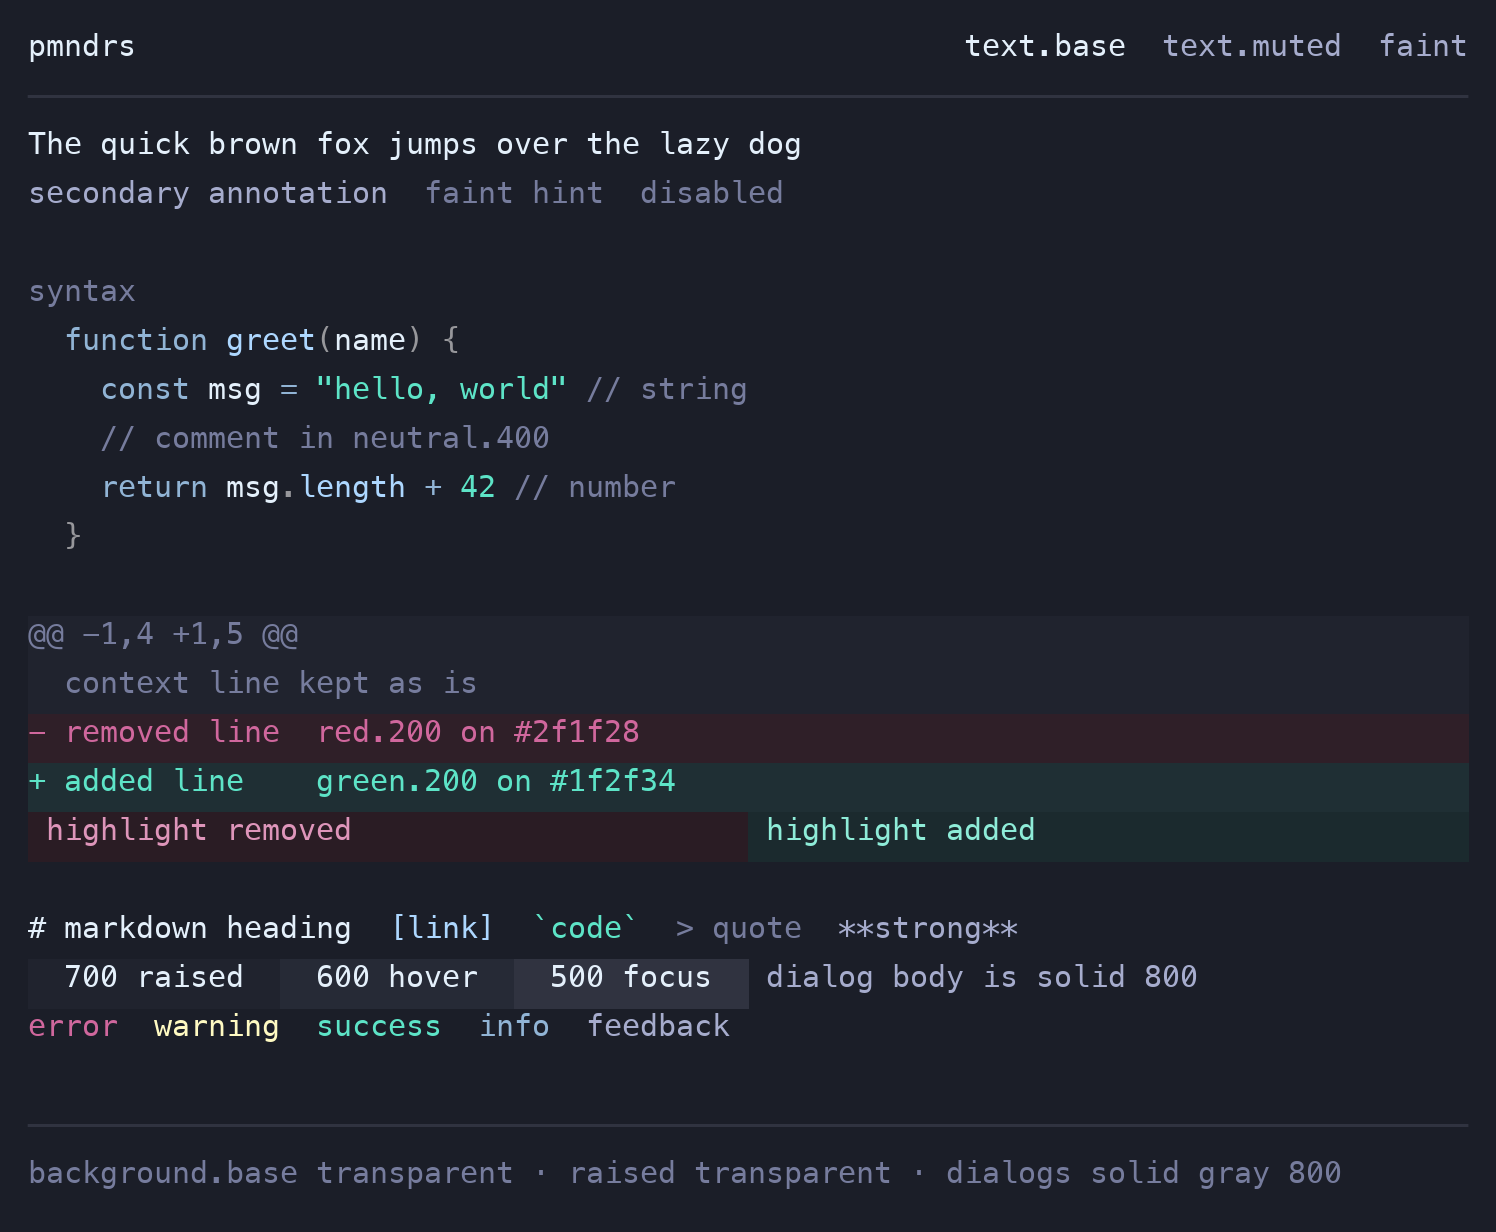
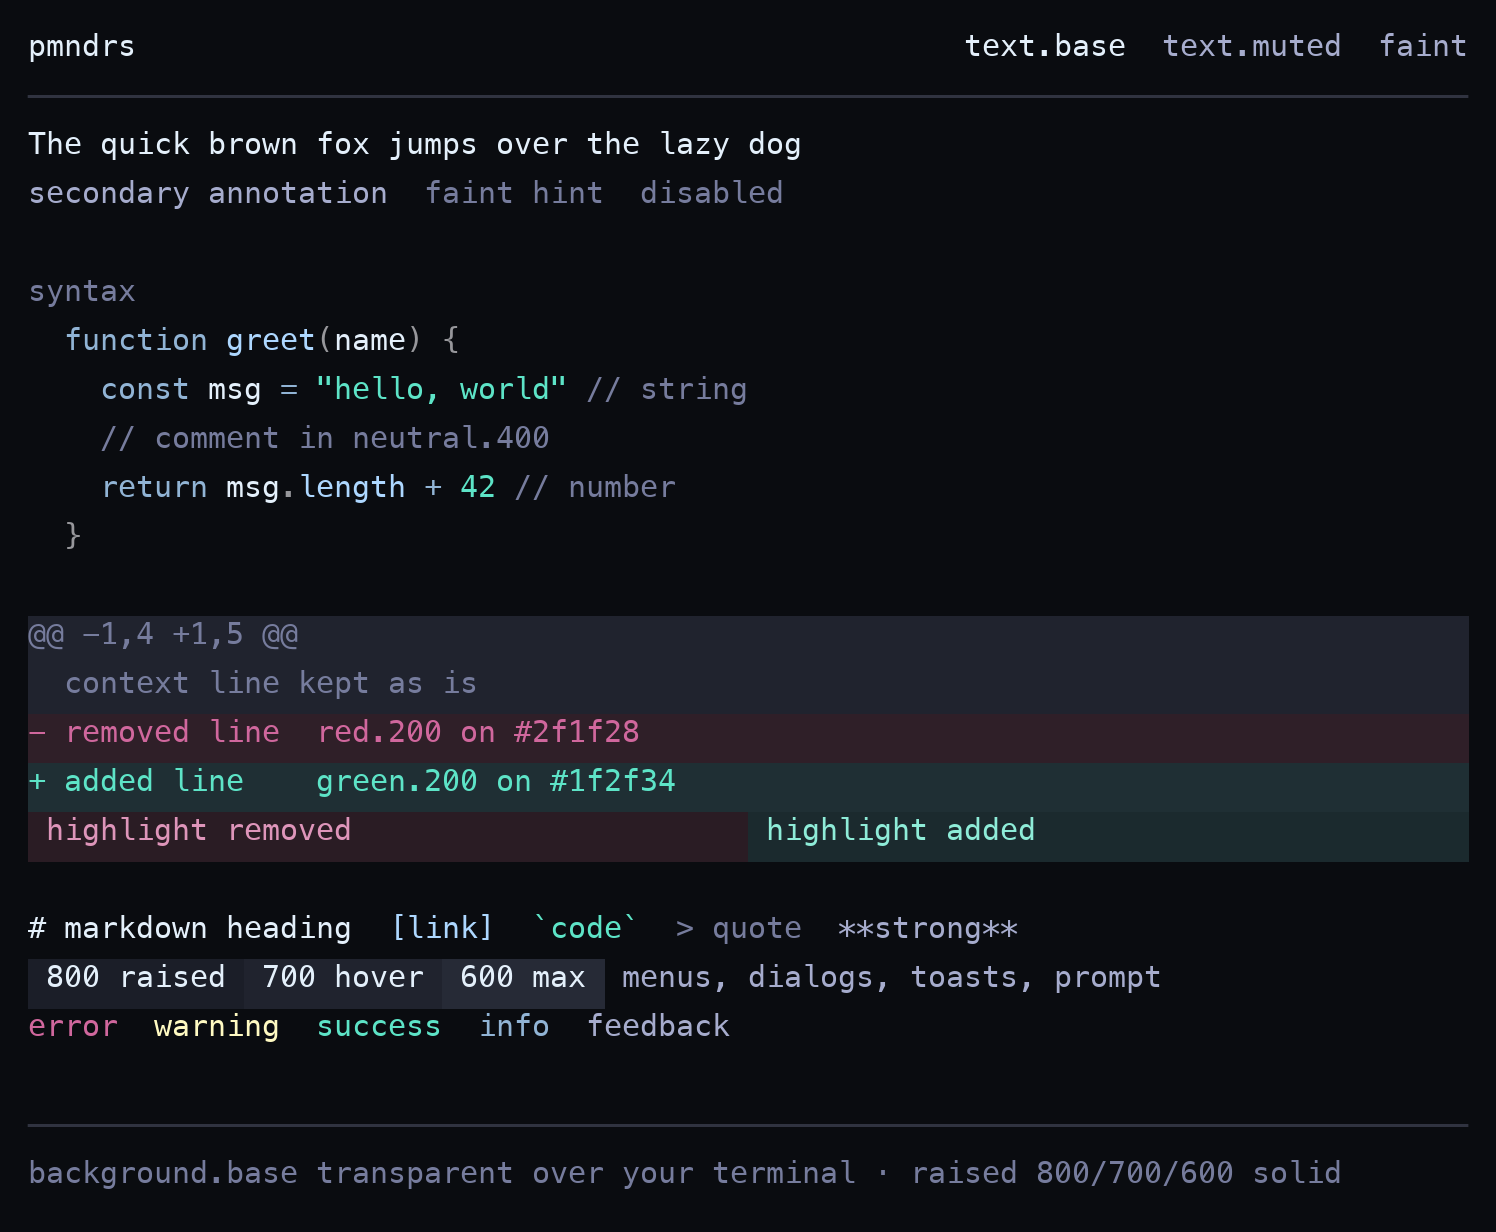
opencode: fold the theme onto a solid raised ramp
OpenCode has no menu-only token: right-click menus read background.raised directly, so they stay transparent unless the whole ramp is solid. Make raised 800/700/600 opaque and keep only background.base transparent, which is what the built-in themes do. The prompt box, tabs and code blocks now carry a panel; menus, dialogs and toasts stop showing the transcript through.

Changed region(s): [[0.0307, 0.7711, 0.7995, 0.8328], [0.615, 0.9253, 0.8917, 0.9562], [0.369, 0.9253, 0.5842, 0.9562]]

diff --git a/README.md b/README.md
@@ -69,7 +69,7 @@ The filename is the theme name, so select `pmndrs` in `~/.config/opencode/cli.js
 }
 ```
 
-Backgrounds are transparent by design, so the theme blends with your terminal background instead of forcing its own. Menus and dialogs are the exception: OpenCode has no separate menu token, they read `background.raised` — which the prompt box and code blocks also read — so the solid panel comes from the `@dialog` overrides instead (gray 800 body, 700/600 for rows and hover), leaving everything else flat.
+Only `background.base` is transparent, so the transcript sits on your own terminal background. Everything drawn on top of it — prompt box, tab strip, menus, dialogs, toasts, code blocks — uses the solid `raised` ramp (gray 800 / 700 / 600). OpenCode has no separate menu token: right-click menus and the prompt box read the same ramp, so they cannot be styled apart — a menu is only solid if the prompt box is. Dialogs and pickers additionally go through `@dialog`, which pulls the focus fill to neutral.500 and keeps light text on the active row.
 
 ![opencode pmndrs theme](assets/opencode.png)
 
